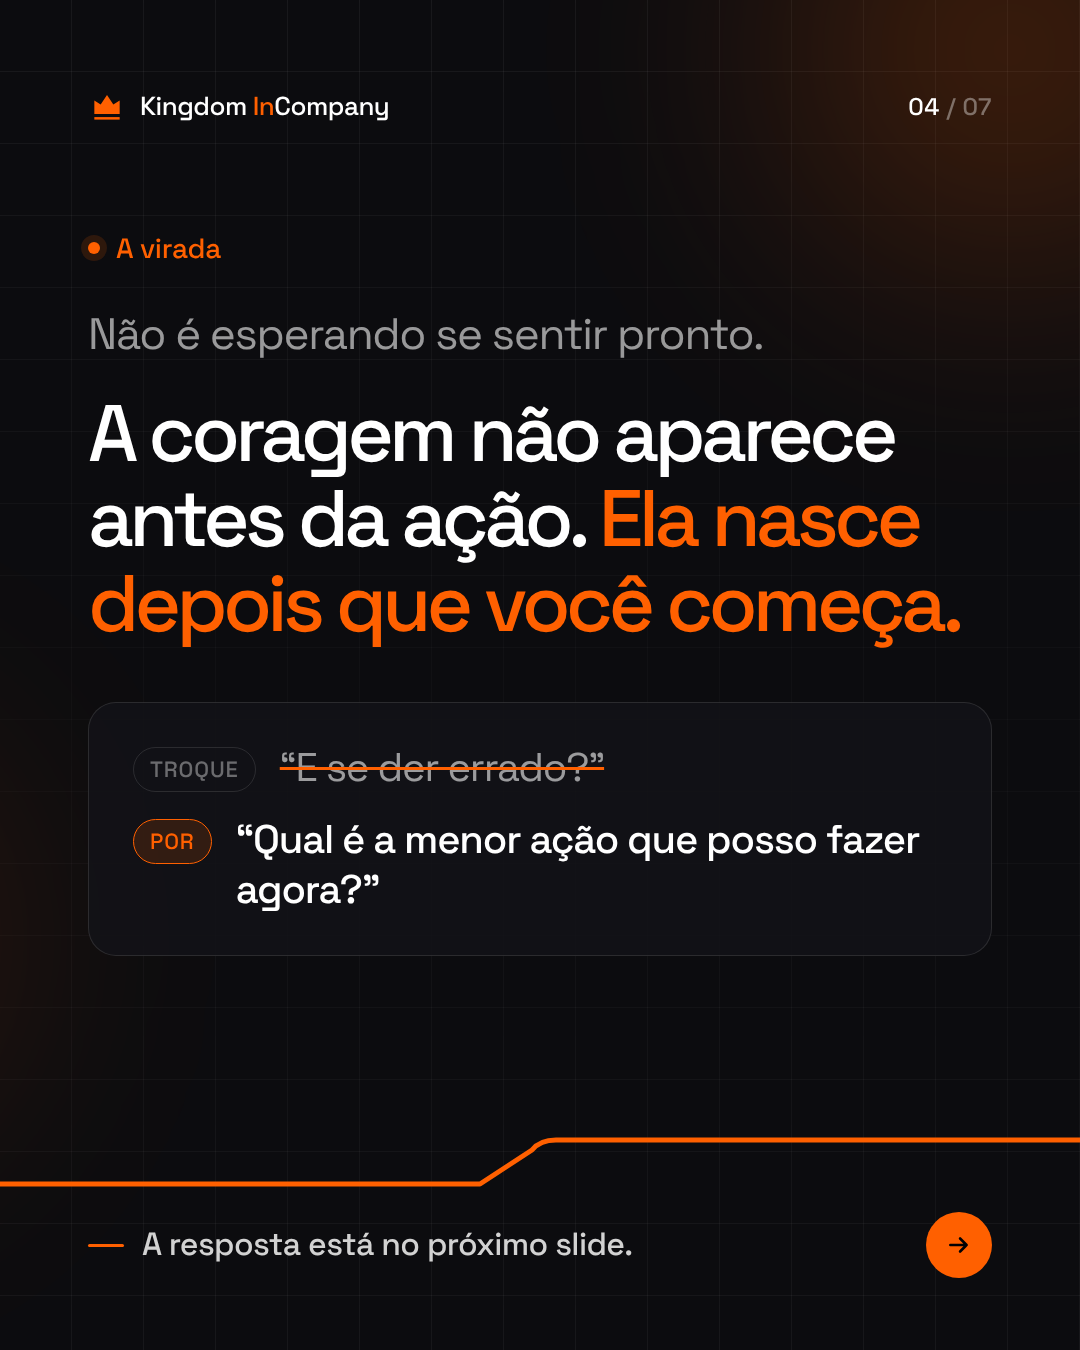
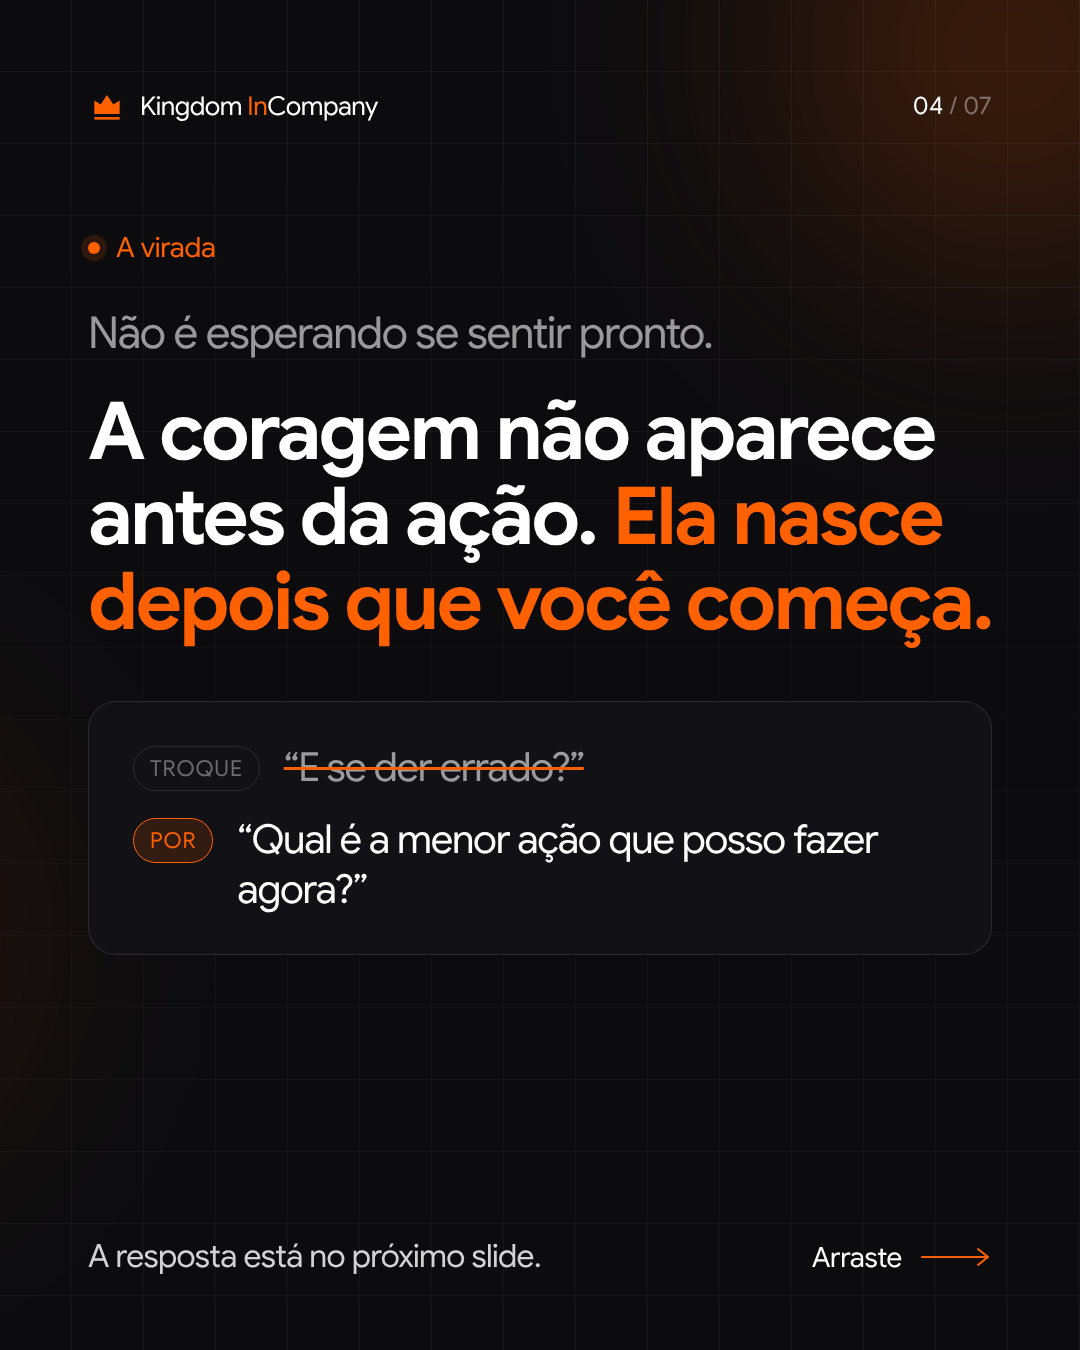
Carrossel 1: Google Sans, sem linha laranja, rodapé só com texto e seta
Títulos em Google Sans Bold e texto em Regular; remove a linha que
atravessava os slides e os botões laranja (agora "Arraste" + seta fina);
na capa sai a coroa, o @ fica alinhado à esquerda e "E esse medo tem nome."
passa para o bloco do subtítulo.

Claude-Session: https://claude.ai/code/session_01RgmbLLVHoJT5B4GNygU6zs

diff --git a/content/carrosseis/01-medo-procrastinar/carrossel.html b/content/carrosseis/01-medo-procrastinar/carrossel.html
@@ -5,21 +5,21 @@
 <title>Carrossel: Como vencer o medo e parar de procrastinar</title>
 <!--
   Kingdom InCompany, carrossel Instagram 1080x1350 (7 slides).
-  Os 7 slides ficam lado a lado numa faixa de 7560px para que a linha laranja
-  (a "linha logica" do post) atravesse todos sem cortes ao deslizar.
+  Os 7 slides ficam lado a lado numa faixa de 7560px para que o fundo (grelha e
+  brilhos) continue sem cortes ao deslizar.
   render.mjs fotografa cada recorte de 1080px para slides/NN.png.
 -->
 <style>
 @font-face{
-  font-family:'Space Grotesk'; font-style:normal; font-weight:300 700; font-display:block;
-  src:url(fonts/space-grotesk-latin.woff2) format('woff2');
+  font-family:'Google Sans'; font-style:normal; font-weight:400 700; font-display:block;
+  src:url(fonts/google-sans-latin.woff2) format('woff2');
 }
 :root{
   --bg:#0C0C0F; --bg-raise:#131317; --bg-raise-2:#1A1A20; --black:#010104;
   --accent:#FF6000; --accent-dim:rgba(255,96,0,.14); --accent-light:#FF9142;
   --white:#FFFFFF; --grey:#D2D2D2; --muted:rgba(255,255,255,.58); --muted-2:rgba(255,255,255,.38);
   --line:rgba(255,255,255,.11); --line-soft:rgba(255,255,255,.06);
-  --font:'Space Grotesk', Arial, sans-serif;
+  --font:'Google Sans', Arial, sans-serif;
   --pad:88px;
 }
 *{ box-sizing:border-box; margin:0; padding:0; }
@@ -35,31 +35,30 @@ body{ width:7560px; height:1350px; overflow:hidden; font-family:var(--font); col
   mask-image:linear-gradient(180deg, rgba(0,0,0,.9) 0%, rgba(0,0,0,.35) 55%, rgba(0,0,0,.8) 100%); }
 .glow{ position:absolute; border-radius:50%; filter:blur(110px); pointer-events:none;
   background:radial-gradient(circle, rgba(255,96,0,.38), rgba(255,96,0,.07) 55%, transparent 75%); }
-.thread{ position:absolute; inset:0; width:7560px; height:1350px; pointer-events:none; }
 
 /* slide frame */
 .slide{ position:absolute; top:0; width:1080px; height:1350px; padding:84px var(--pad) 0; }
 .top{ display:flex; align-items:center; justify-content:space-between; height:44px; }
-.brand{ display:flex; align-items:center; gap:14px; font-size:26px; font-weight:500; letter-spacing:-0.02em; }
+.brand{ display:flex; align-items:center; gap:14px; font-size:26px; font-weight:400; letter-spacing:-0.02em; }
 .brand svg{ width:38px; height:38px; color:var(--accent); }
-.brand b{ color:var(--accent); font-weight:500; }
-.count{ font-size:24px; font-weight:500; letter-spacing:0.02em; color:var(--muted-2); }
-.count b{ color:var(--white); font-weight:500; }
+.brand b{ color:var(--accent); font-weight:400; }
+.count{ font-size:24px; font-weight:400; letter-spacing:0.02em; color:var(--muted-2); }
+.count b{ color:var(--white); font-weight:400; }
 
 .body{ position:absolute; left:var(--pad); right:var(--pad); top:230px; }
-.eyebrow{ display:inline-flex; align-items:center; gap:16px; font-size:28px; font-weight:500;
+.eyebrow{ display:inline-flex; align-items:center; gap:16px; font-size:28px; font-weight:400;
   letter-spacing:-0.01em; color:var(--accent); margin-bottom:40px; }
 .eyebrow::before{ content:""; width:12px; height:12px; border-radius:50%; background:var(--accent);
   box-shadow:0 0 0 7px var(--accent-dim); }
 
-h1,h2{ font-weight:500; letter-spacing:-0.06em; color:var(--white); }
+h1,h2{ font-weight:700; letter-spacing:-0.035em; color:var(--white); }
 h1{ font-size:112px; line-height:1.02; }
 h2{ font-size:80px; line-height:1.06; }
 .acc{ color:var(--accent); }
 .lead{ font-size:44px; line-height:1.3; letter-spacing:-0.03em; color:var(--muted); font-weight:400; }
-.lead strong{ color:var(--white); font-weight:500; }
+.lead strong{ color:var(--white); font-weight:400; }
 .small{ font-size:38px; line-height:1.35; letter-spacing:-0.02em; color:var(--muted); }
-.small strong{ color:var(--white); font-weight:500; }
+.small strong{ color:var(--white); font-weight:400; }
 
 .strike{ position:relative; white-space:nowrap; color:var(--muted-2); }
 .strike::after{ content:""; position:absolute; left:-4%; right:-4%; top:54%; height:8px;
@@ -69,25 +68,18 @@ h2{ font-size:80px; line-height:1.06; }
 .foot{ position:absolute; left:var(--pad); right:var(--pad); bottom:72px;
   display:flex; align-items:center; justify-content:space-between; gap:40px; }
 .bridge{ display:flex; align-items:center; gap:18px; font-size:32px; line-height:1.3;
-  letter-spacing:-0.02em; color:var(--grey); font-weight:500; }
-.bridge::before{ content:""; flex:0 0 36px; height:3px; border-radius:3px; background:var(--accent); }
-.swipe{ display:inline-flex; align-items:center; gap:16px; flex:0 0 auto;
-  background:var(--accent); color:var(--black); border-radius:999px; padding:7px 7px 7px 28px;
-  font-size:26px; font-weight:500; letter-spacing:-0.03em; }
-.swipe .bub{ width:52px; height:52px; border-radius:50%; background:var(--black); color:var(--accent);
-  display:flex; align-items:center; justify-content:center; }
-.swipe .bub svg{ width:22px; height:22px; }
-.next{ flex:0 0 66px; width:66px; height:66px; border-radius:50%; background:var(--accent); color:var(--black);
-  display:flex; align-items:center; justify-content:center; }
-.next svg{ width:26px; height:26px; }
+  letter-spacing:-0.02em; color:var(--grey); font-weight:400; }
+.go{ display:inline-flex; align-items:center; gap:18px; flex:0 0 auto; margin-left:auto;
+  font-size:28px; letter-spacing:-0.01em; color:var(--white); }
+.go svg{ width:72px; height:24px; color:var(--accent); }
 
 /* slide 2: os quatro medos */
 .fears{ display:flex; flex-direction:column; gap:22px; margin-bottom:56px; }
-.fears li{ list-style:none; font-size:70px; line-height:1.08; letter-spacing:-0.05em; font-weight:500; }
+.fears li{ list-style:none; font-size:64px; line-height:1.08; letter-spacing:-0.03em; font-weight:700; }
 .fears li span{ color:var(--muted-2); }
 
 /* slide 3: a mentira */
-.quote{ font-size:132px; line-height:1; letter-spacing:-0.065em; font-weight:500; margin:34px 0 56px;
+.quote{ font-size:132px; line-height:1; letter-spacing:-0.04em; font-weight:700; margin:34px 0 56px;
   padding:42px 0 46px; border-top:1px solid var(--line); border-bottom:1px solid var(--line); }
 .quote .q{ color:var(--accent); }
 
@@ -95,11 +87,11 @@ h2{ font-size:80px; line-height:1.06; }
 .swap{ margin-top:56px; border:1px solid var(--line); border-radius:28px; background:rgba(19,19,23,.86);
   padding:40px 44px; display:flex; flex-direction:column; gap:22px; }
 .swap .row{ display:flex; align-items:flex-start; gap:24px; font-size:40px; line-height:1.25; letter-spacing:-0.03em; }
-.swap .tag{ flex:0 0 auto; margin-top:4px; font-size:22px; font-weight:500; letter-spacing:0.04em; text-transform:uppercase;
+.swap .tag{ flex:0 0 auto; margin-top:4px; font-size:22px; font-weight:400; letter-spacing:0.04em; text-transform:uppercase;
   padding:8px 16px; border-radius:999px; border:1px solid var(--line); color:var(--muted-2); }
 .swap .row.new .tag{ border-color:var(--accent); color:var(--accent); background:var(--accent-dim); }
 .swap .old{ color:var(--muted); text-decoration:line-through; text-decoration-color:var(--accent); text-decoration-thickness:3px; }
-.swap .new-q{ color:var(--white); font-weight:500; }
+.swap .new-q{ color:var(--white); font-weight:400; }
 
 /* slide 5: pequeno passo */
 .pairs{ margin-top:52px; display:flex; flex-direction:column; }
@@ -107,7 +99,7 @@ h2{ font-size:80px; line-height:1.06; }
   padding:30px 0; border-top:1px solid var(--line); }
 .pair:last-child{ border-bottom:1px solid var(--line); }
 .pair .no{ font-size:34px; line-height:1.25; letter-spacing:-0.02em; color:var(--muted-2); }
-.pair .yes{ font-size:38px; line-height:1.2; letter-spacing:-0.03em; font-weight:500; color:var(--white); }
+.pair .yes{ font-size:38px; line-height:1.2; letter-spacing:-0.03em; font-weight:400; color:var(--white); }
 .pair .arr{ width:64px; height:64px; border-radius:50%; background:var(--accent-dim); color:var(--accent);
   display:flex; align-items:center; justify-content:center; }
 .pair .arr svg{ width:26px; height:26px; }
@@ -117,7 +109,7 @@ h2{ font-size:80px; line-height:1.06; }
 .steps li{ list-style:none; display:flex; align-items:center; gap:30px; padding:16px 0;
   border-top:1px solid var(--line); font-size:40px; line-height:1.2; letter-spacing:-0.03em; }
 .steps li:last-child{ border-bottom:1px solid var(--line); }
-.steps li::before{ counter-increment:s; content:"0" counter(s); flex:0 0 72px; font-size:40px; font-weight:500;
+.steps li::before{ counter-increment:s; content:"0" counter(s); flex:0 0 72px; font-size:40px; font-weight:400;
   color:var(--accent); letter-spacing:-0.04em; }
 .close{ margin-top:40px; }
 
@@ -129,8 +121,8 @@ h2{ font-size:80px; line-height:1.06; }
   display:flex; align-items:center; justify-content:center; }
 .action .ic svg{ width:34px; height:34px; }
 .action p{ font-size:36px; line-height:1.3; letter-spacing:-0.02em; color:var(--muted); }
-.action p strong{ color:var(--white); font-weight:500; }
-.pill{ display:inline-block; background:var(--accent); color:var(--black); font-weight:500; border-radius:999px;
+.action p strong{ color:var(--white); font-weight:400; }
+.pill{ display:inline-block; background:var(--accent); color:var(--black); font-weight:400; border-radius:999px;
   padding:2px 20px 4px; letter-spacing:-0.02em; white-space:nowrap; }
 .sign{ position:absolute; left:var(--pad); right:var(--pad); bottom:72px; display:flex; align-items:center;
   justify-content:space-between; font-size:26px; color:var(--muted-2); letter-spacing:-0.01em; }
@@ -140,22 +132,22 @@ h2{ font-size:80px; line-height:1.06; }
 .cover-photo img{ position:absolute; inset:0; width:100%; height:100%; object-fit:cover; object-position:50% 30%;
   filter:grayscale(.25) contrast(1.06) brightness(.92); }
 .cover-photo .ph{ position:absolute; left:88px; right:88px; top:170px; height:380px; font-family:var(--font); border:3px dashed rgba(255,255,255,.22);
-  border-radius:28px; display:flex; align-items:center; justify-content:center; font-size:34px; font-weight:500;
+  border-radius:28px; display:flex; align-items:center; justify-content:center; font-size:34px; font-weight:400;
   letter-spacing:.02em; color:var(--muted-2); }
 .cover-photo .tint{ position:absolute; inset:0;
   background:
     radial-gradient(55% 35% at 100% 0%, rgba(255,96,0,.3), transparent 70%),
     linear-gradient(180deg, rgba(12,12,15,.6) 0%, rgba(12,12,15,0) 16%, rgba(12,12,15,.1) 42%, rgba(12,12,15,.8) 60%, #0C0C0F 74%),
     linear-gradient(90deg, transparent 88%, #0C0C0F 100%); }
-.slide.cover .body{ top:auto; bottom:276px; }
-.slide.cover h1{ font-size:88px; line-height:1.03; }
-.handle{ display:flex; align-items:center; gap:14px; font-size:26px; font-weight:500; letter-spacing:-0.01em; }
-.handle svg{ width:38px; height:38px; color:var(--accent); }
+.slide.cover .body{ top:auto; bottom:190px; }
+.slide.cover h1{ font-size:88px; line-height:1.04; }
+.handle{ font-size:28px; letter-spacing:-0.01em; color:var(--white); }
 </style>
 </head>
 <body>
 <svg width="0" height="0" style="position:absolute">
   <symbol id="i-crown" viewBox="0 0 24 24" fill="currentColor"><path d="M4 8.5 8 11l4-6 4 6 4-2.5V17H4V8.5Z"/><path d="M4 19h16v1.6H4z"/></symbol>
+  <symbol id="i-long" viewBox="0 0 72 24" fill="none" stroke="currentColor" stroke-width="2" stroke-linecap="round" stroke-linejoin="round"><path d="M2 12h66M58 4l10 8-10 8"/></symbol>
   <symbol id="i-arrow" viewBox="0 0 24 24" fill="none" stroke="currentColor" stroke-width="2.4" stroke-linecap="round" stroke-linejoin="round"><path d="M4 12h15M13 6l6 6-6 6"/></symbol>
   <symbol id="i-save" viewBox="0 0 24 24" fill="none" stroke="currentColor" stroke-width="2" stroke-linejoin="round"><path d="M6 3.5h12v17l-6-4.2-6 4.2v-17Z"/></symbol>
   <symbol id="i-chat" viewBox="0 0 24 24" fill="none" stroke="currentColor" stroke-width="2" stroke-linejoin="round"><path d="M4 5.5h16v10.5H10l-5 4v-4H4V5.5Z"/></symbol>
@@ -174,67 +166,19 @@ h2{ font-size:80px; line-height:1.06; }
   <div class="glow" style="width:620px;height:620px;left:5900px;top:760px;opacity:.6"></div>
   <div class="glow" style="width:900px;height:900px;left:6860px;top:-380px"></div>
 
-  <!-- A linha que atravessa os 7 slides: hesita, enrola-se, entra em ciclo, vira, sobe em degraus e chega. -->
-  <svg class="thread" viewBox="0 0 7560 1350" fill="none">
-    <defs>
-      <filter id="soft" x="-5%" y="-50%" width="110%" height="200%"><feGaussianBlur stdDeviation="7"/></filter>
-    </defs>
-    <g id="threadPath">
-      <path id="tp" stroke="#FF6000" stroke-width="5" stroke-linecap="round" stroke-linejoin="round" d="
-        M -40 1150
-        C 160 1150, 260 1128, 380 1138
-        S 600 1176, 720 1150
-        S 940 1112, 1080 1150
-        C 1180 1176, 1262 1180, 1300 1130
-        C 1332 1086, 1262 1072, 1250 1114
-        C 1238 1160, 1350 1186, 1440 1140
-        C 1500 1106, 1484 1070, 1452 1080
-        C 1412 1094, 1440 1172, 1560 1160
-        C 1652 1150, 1684 1090, 1642 1080
-        C 1600 1072, 1600 1152, 1720 1162
-        C 1840 1172, 1980 1124, 2160 1146
-        C 2400 1172, 2600 1176, 2700 1124
-        C 2772 1084, 2744 1062, 2700 1062
-        C 2640 1062, 2618 1112, 2682 1152
-        C 2760 1192, 2900 1184, 3240 1184
-        L 3720 1184
-        L 3772 1150
-        Q 3780 1140, 3796 1140
-        L 4548 1140
-        Q 4560 1140, 4560 1128
-        L 4560 1127
-        Q 4560 1115, 4572 1115
-        L 4968 1115
-        Q 4980 1115, 4980 1103
-        L 4980 1102
-        Q 4980 1090, 4992 1090
-        L 5628 1090
-        Q 5640 1090, 5640 1078
-        L 5640 1077
-        Q 5640 1065, 5652 1065
-        L 6048 1065
-        Q 6060 1065, 6060 1053
-        L 6060 1052
-        Q 6060 1040, 6072 1040
-        L 6870 1040"/>
-    </g>
-    <circle cx="6890" cy="1040" r="34" fill="rgba(255,96,0,.14)"/>
-    <circle cx="6890" cy="1040" r="13" fill="#FF6000"/>
-  </svg>
 
   <!-- 01 GANCHO -->
   <section class="slide cover" style="left:0">
     <div class="top">
-      <div class="handle"><svg><use href="#i-crown"/></svg><span>@kingdomtraining.center</span></div>
+      <div class="handle">@kingdomtraining.center</div>
       <div class="count"><b>01</b> / 07</div>
     </div>
     <div class="body">
       <h1>Você não está procrastinando porque é <span class="strike">preguiçoso.</span></h1>
-      <p class="lead" style="margin-top:40px;max-width:820px">Na maioria das vezes, você está com <strong class="acc">medo de começar.</strong></p>
+      <p class="lead" style="margin-top:40px;max-width:840px">Na maioria das vezes, você está com <strong class="acc">medo de começar.</strong><br>E esse medo tem nome.</p>
     </div>
     <div class="foot">
-      <div class="bridge">E esse medo tem nome.</div>
-      <div class="swipe"><span>Arraste</span><span class="bub"><svg><use href="#i-arrow"/></svg></span></div>
+      <div class="go"><span>Arraste</span><svg><use href="#i-long"/></svg></div>
     </div>
   </section>
 
@@ -256,7 +200,7 @@ h2{ font-size:80px; line-height:1.06; }
     </div>
     <div class="foot">
       <div class="bridge">Só que esse alívio sai caro.</div>
-      <div class="next"><svg><use href="#i-arrow"/></svg></div>
+      <div class="go"><span>Arraste</span><svg><use href="#i-long"/></svg></div>
     </div>
   </section>
 
@@ -274,7 +218,7 @@ h2{ font-size:80px; line-height:1.06; }
     </div>
     <div class="foot">
       <div class="bridge">Então, como tirar o controle das mãos do medo?</div>
-      <div class="next"><svg><use href="#i-arrow"/></svg></div>
+      <div class="go"><span>Arraste</span><svg><use href="#i-long"/></svg></div>
     </div>
   </section>
 
@@ -295,7 +239,7 @@ h2{ font-size:80px; line-height:1.06; }
     </div>
     <div class="foot">
       <div class="bridge">A resposta está no próximo slide.</div>
-      <div class="next"><svg><use href="#i-arrow"/></svg></div>
+      <div class="go"><span>Arraste</span><svg><use href="#i-long"/></svg></div>
     </div>
   </section>
 
@@ -316,7 +260,7 @@ h2{ font-size:80px; line-height:1.06; }
     </div>
     <div class="foot">
       <div class="bridge">E dá para começar ainda hoje.</div>
-      <div class="next"><svg><use href="#i-arrow"/></svg></div>
+      <div class="go"><span>Arraste</span><svg><use href="#i-long"/></svg></div>
     </div>
   </section>
 
@@ -338,8 +282,8 @@ h2{ font-size:80px; line-height:1.06; }
       </ol>
       <p class="small close">Não precisa terminar tudo hoje. <strong>Cada começo desmente o <span class="acc">“eu não sou capaz”</span>.</strong></p>
     </div>
-    <div class="foot" style="justify-content:flex-end">
-      <div class="next"><svg><use href="#i-arrow"/></svg></div>
+    <div class="foot">
+      <div class="go"><span>Arraste</span><svg><use href="#i-long"/></svg></div>
     </div>
   </section>
 
